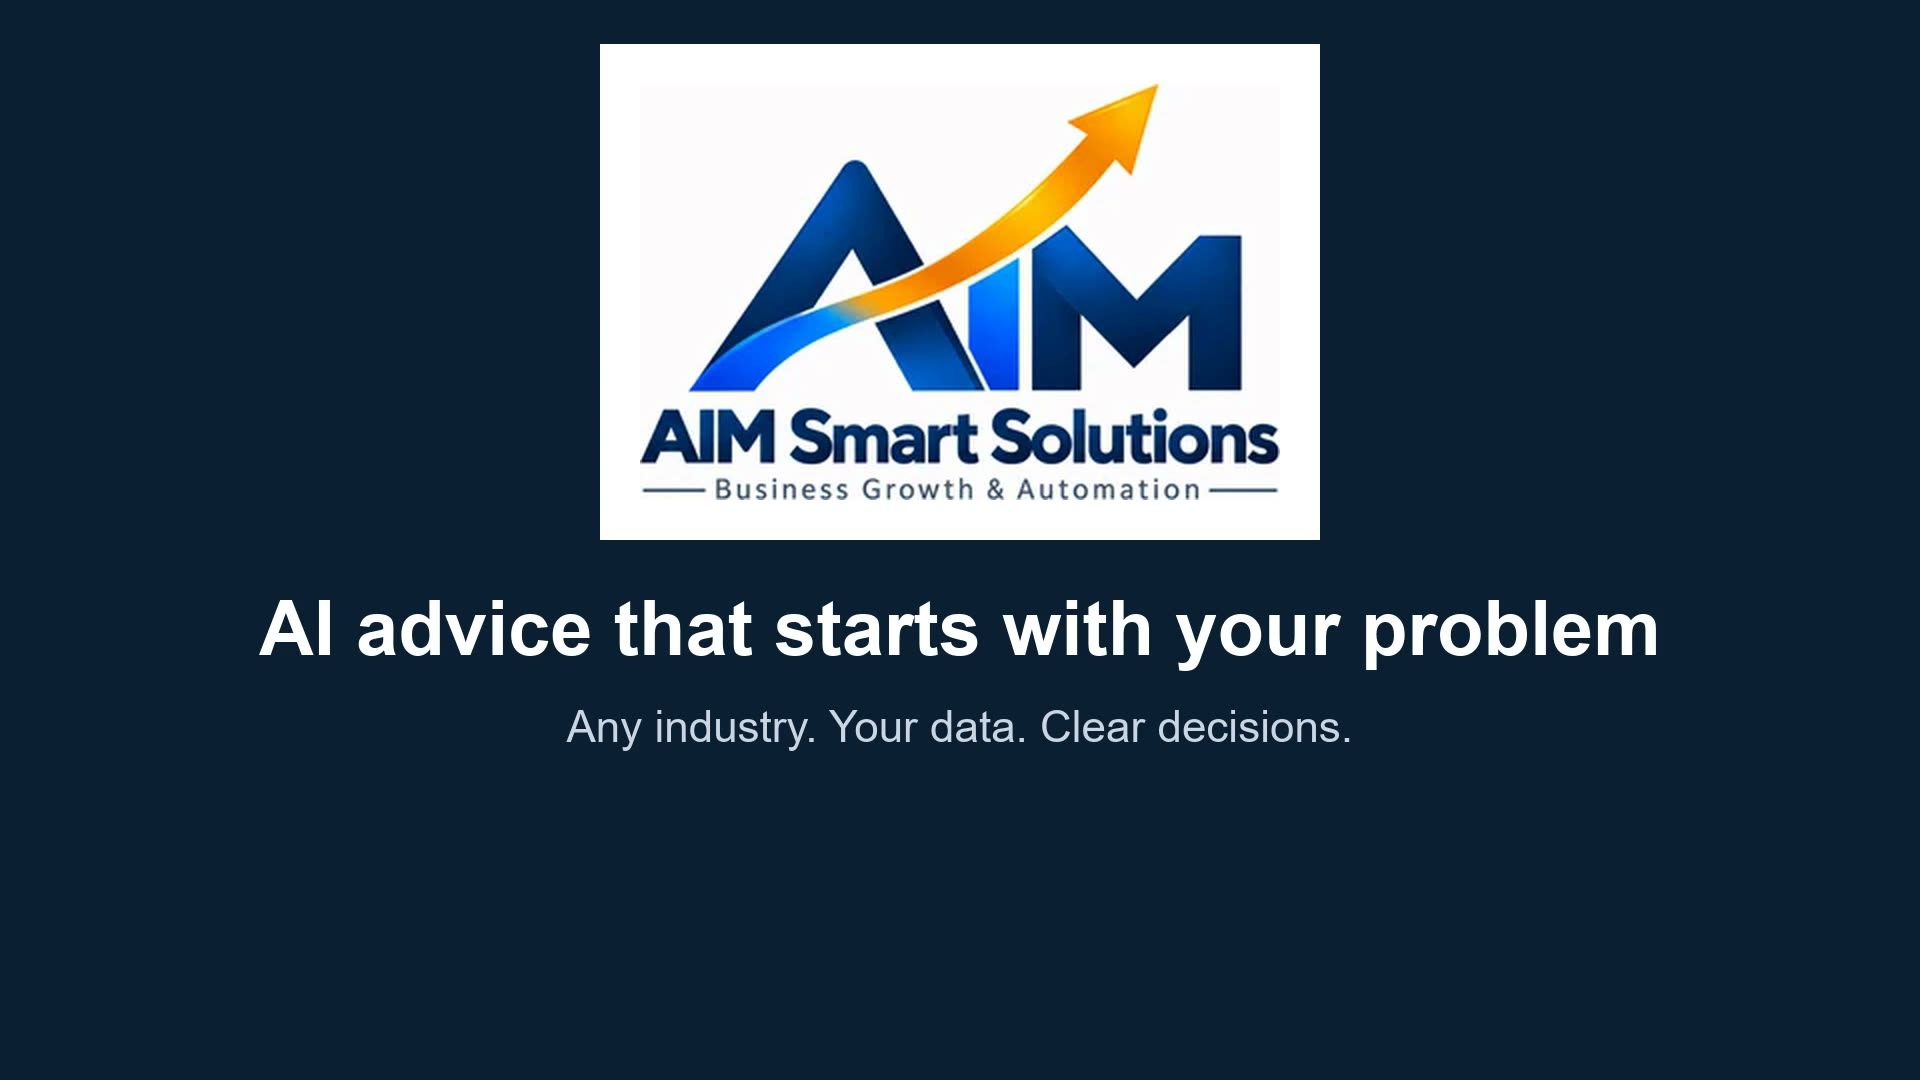
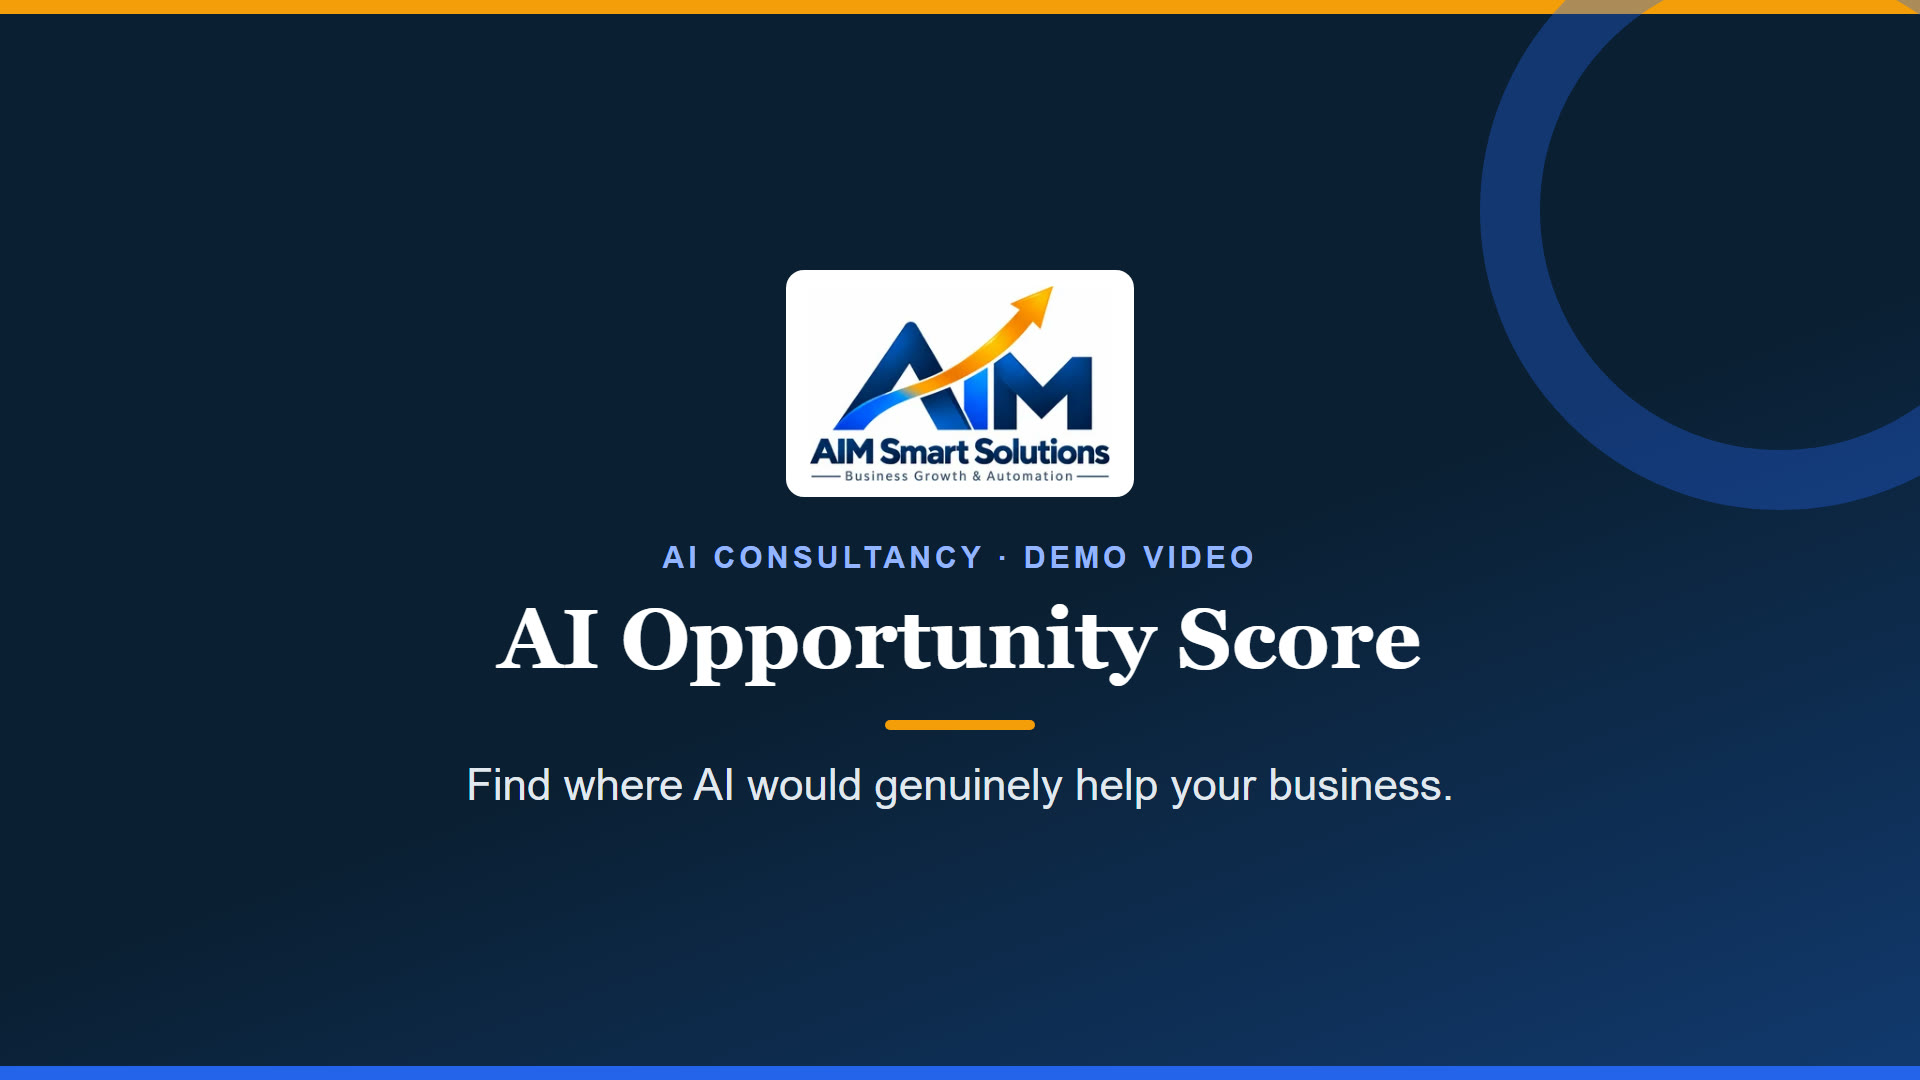
Final fixes: real form wording, quote services by pillar, booking time limit, video covers
- Enquiry button "Send my enquiry".
- Quote form: nine services grouped by pillar plus "Not sure yet / something
  else" (names go into the emails); up to 6, matching what the server keeps.
- Booking: "We couldn't load the available times..." with "Try again" if times
  fail or take over 8 s; late times still appear.
- Course Design & Build shows the Skills Taster video (page and /services/).
  Video Production button "Watch our showreel".
- Branded covers for all 10 demo videos.
- Header button "Book a call" under 768px; even spacing in homepage pillar
  cards; textareas use the site font.
- Tests and decisions log updated.

diff --git a/app/instant-quote/page.tsx b/app/instant-quote/page.tsx
@@ -4,17 +4,19 @@ import ContactCrumbs from "../components/ContactCrumbs";
 import { FormEvent, useMemo, useState } from "react";
 import PrivacyNote from "../components/PrivacyNote";
 import { callFunction, HONEYPOT_FIELD, toUkE164 } from "@/lib/supabase-functions";
+import { pillars } from "@/lib/site";
+import { serviceBySlug } from "../services/data";
 import "./quote.css";
 
-const services = [
-  { id: "discovery", name: "Automation Discovery & Workflow Plan" },
-  { id: "email", name: "Customer Email Automation" },
-  { id: "quote", name: "Automatic Quote Workflow" },
-  { id: "booking", name: "Appointment Booking & Reminders" },
-  { id: "dashboard", name: "Business Dashboard" },
-  { id: "voice", name: "AI Voice Agent Setup" },
-  { id: "other", name: "Other service not listed" },
-];
+// The nine services, grouped by pillar, plus "Not sure yet". Their names go into the quote
+// emails as they appear here. The save-service-request function keeps up to 6 per request.
+const NOT_SURE = { id: "not-sure", name: "Not sure yet / something else" };
+const groups = pillars.map((pillar) => ({
+  name: pillar.name,
+  services: pillar.services.map((slug) => ({ id: slug, name: serviceBySlug(slug)?.name ?? slug })),
+}));
+const services = [...groups.flatMap((group) => group.services), NOT_SURE];
+const MAX_SERVICES = 6;
 
 type SubmissionState = "ready" | "submitting" | "success" | "error";
 
@@ -33,6 +35,7 @@ export default function InstantQuotePage() {
     setState("ready");
     setMessage("");
     setSelected((current) => {
+      if (!current.includes(id) && current.length >= MAX_SERVICES) return current;
       const next = current.includes(id) ? current.filter((item) => item !== id) : [...current, id];
       setActiveIndex((index) => Math.min(index, Math.max(next.length - 1, 0)));
       return next;
@@ -90,15 +93,25 @@ export default function InstantQuotePage() {
             <div aria-hidden="true" style={{ position: "absolute", left: "-10000px", width: 1, height: 1, overflow: "hidden" }}><label htmlFor="quote-website">Website<input id="quote-website" name={HONEYPOT_FIELD} type="text" tabIndex={-1} autoComplete="off" /></label></div>
           </div>
 
-          <div className="quote-step service-step"><span>02</span><div><h2>Select the support you may need</h2><p>Not sure? Choose “Automation Discovery &amp; Workflow Plan” or book a free call first.</p></div></div>
-          <div className="quote-services">
-            {services.map((service) => (
-              <label className={selected.includes(service.id) ? "selected" : ""} key={service.id}>
-                <input type="checkbox" checked={selected.includes(service.id)} onChange={() => toggle(service.id)} />
-                <span><strong>{service.name}</strong></span>
-              </label>
-            ))}
-          </div>
+          <div className="quote-step service-step"><span>02</span><div><h2>Select the support you may need</h2><p>Choose up to {MAX_SERVICES}. Not sure which fits? Choose “{NOT_SURE.name}” or book a free call first.</p></div></div>
+          {[...groups, { name: "Something else", services: [NOT_SURE] }].map((group) => (
+            <fieldset className="quote-service-group" key={group.name}>
+              <legend>{group.name}</legend>
+              <div className="quote-services">
+                {group.services.map((service) => {
+                  const isOn = selected.includes(service.id);
+                  const full = !isOn && selected.length >= MAX_SERVICES;
+                  return (
+                    <label className={`${isOn ? "selected" : ""}${full ? " is-full" : ""}`} key={service.id}>
+                      <input type="checkbox" checked={isOn} disabled={full} onChange={() => toggle(service.id)} />
+                      <span><strong>{service.name}</strong></span>
+                    </label>
+                  );
+                })}
+              </div>
+            </fieldset>
+          ))}
+          {selected.length >= MAX_SERVICES && <p className="quote-limit" role="status">You have chosen {MAX_SERVICES} services, the most one request can hold. Untick one to choose another.</p>}
         </div>
 
         <aside className="service-details-panel" aria-live="polite">

diff --git a/app/book-appointment/page.tsx b/app/book-appointment/page.tsx
@@ -4,10 +4,15 @@ import { FormEvent, useEffect, useState } from "react";
 import PrivacyNote from "../components/PrivacyNote";
 import ContactCrumbs from "../components/ContactCrumbs";
 import { BOOKING_CTA } from "@/lib/site";
-import { callFunction, HONEYPOT_FIELD } from "@/lib/supabase-functions";
+import { callFunction, CONTACT_EMAIL, HONEYPOT_FIELD } from "@/lib/supabase-functions";
 import "./booking.css";
 
-type BookingState = "loading" | "ready" | "submitting" | "success" | "error";
+type BookingState = "loading" | "ready" | "slotsError" | "submitting" | "success" | "error";
+
+// The calendar can take several seconds on its first request after a quiet spell. After 8 seconds
+// the visitor sees this message and a "Try again" button; if the times arrive later they still appear.
+const SLOT_TIMEOUT_MS = 8000;
+const SLOTS_FAILED = `We couldn't load the available times. Please try again or email ${CONTACT_EMAIL}.`;
 
 const formatSlot = (slot: string) => new Intl.DateTimeFormat("en-GB", {
   weekday: "short", day: "numeric", month: "short", hour: "2-digit", minute: "2-digit", timeZone: "Europe/London",
@@ -27,9 +32,10 @@ export default function BookAppointmentPage() {
 
   // State is only set once the request settles, never synchronously inside the effect.
   function showSlots(request: Promise<string[]>) {
+    const timer = window.setTimeout(() => { setState("slotsError"); setMessage(SLOTS_FAILED); }, SLOT_TIMEOUT_MS);
     request.then(
-      (loaded) => { setSlots(loaded); setState("ready"); },
-      (error: unknown) => { setState("error"); setMessage(error instanceof Error ? error.message : "Available times could not be loaded."); },
+      (loaded) => { window.clearTimeout(timer); setSlots(loaded); setState("ready"); setMessage(""); },
+      () => { window.clearTimeout(timer); setState("slotsError"); setMessage(SLOTS_FAILED); },
     );
   }
 
@@ -84,13 +90,14 @@ export default function BookAppointmentPage() {
             <fieldset className="slot-field">
               <legend>Available appointment times</legend>
               {state === "loading" && <p className="slot-loading">Loading available times…</p>}
-              {state !== "loading" && slots.length === 0 && <p className="slot-loading">No appointment times are currently available.</p>}
+              {state === "ready" && slots.length === 0 && <p className="slot-loading">No appointment times are currently available.</p>}
               <div className="slot-grid">{slots.map((slot) => <button key={slot} type="button" className={selectedSlot === slot ? "selected" : ""} onClick={() => setSelectedSlot(slot)}>{formatSlot(slot)}</button>)}</div>
             </fieldset>
             <p className="booking-reassurance">Your details are used only to arrange and prepare for this conversation.</p>
             <button type="submit" disabled={!selectedSlot || state === "submitting"}>{state === "submitting" ? "Booking…" : "Book my free AI Opportunity Call"}<span>→</span></button>
           </>}
-          {message && <p className={`submission-message ${state}`} role="status" aria-live="polite">{message}</p>}
+          {message && <p className={`submission-message ${state === "slotsError" ? "error" : state}`} role="status" aria-live="polite">{message}</p>}
+          {state === "slotsError" && <button className="retry-button" type="button" onClick={loadSlots}>Try again</button>}
           {state === "error" && <button className="retry-button" type="button" onClick={loadSlots}>Reload available times</button>}
           <PrivacyNote text="We use your details only to arrange and prepare for this call." />
         </form>

diff --git a/lib/demos.ts b/lib/demos.ts
@@ -143,7 +143,7 @@ export const demoById = (id: string) => demos.find((demo) => demo.id === id);
 // The demo video(s) for each service: the one list both /services/ and the service pages use,
 // so they always show the same videos. `demoId` ties a video to an interactive demo on the
 // service page, where it is shown inside that demo's card next to "Try it".
-export type DemoVideoCard = { title: string; line: string; video: string; demoId?: string };
+export type DemoVideoCard = { title: string; line: string; video: string; demoId?: string; buttonLabel?: string };
 
 // Video Production's 30-45 second showreel, cut from AIM's own videos (no voiceover).
 export const SHOWREEL_VIDEO = "showreel-v1";
@@ -156,7 +156,7 @@ const demoVideo = (id: string, line: string): DemoVideoCard => {
 export const serviceVideos: Record<string, DemoVideoCard[]> = {
   "ai-voice-agents": [{ title: "AI Voice Agents explainer", line: "How a voice agent answers calls and calls new leads back.", video: VOICE_AGENTS_VIDEO }],
   "sales-marketing": [demoVideo("content-generator", "Turn one idea into social posts, a content plan and local keyword ideas.")],
-  "video-production": [{ title: "AIM video showreel", line: "A short reel of explainer and demo videos made for AIM.", video: SHOWREEL_VIDEO }],
+  "video-production": [{ title: "AIM video showreel", line: "A short reel of explainer and demo videos made for AIM.", video: SHOWREEL_VIDEO, buttonLabel: "Watch our showreel" }],
   "business-automation": [{ title: "Business Process Automation demo", line: "An enquiry arrives, the customer gets an instant reply and the owner gets an alert.", video: "automation-demo-v1" }],
   "smart-apps": [demoVideo("pharma-market-intelligence", "Decide which product to pilot, and at what price, from field survey data.")],
   "data-analytics": [
@@ -166,7 +166,7 @@ export const serviceVideos: Record<string, DemoVideoCard[]> = {
   ],
   "ai-consultancy": [demoVideo("ai-opportunity-score", "Answer seven quick questions and get a score with your top recommendations.")],
   training: [demoVideo("ai-skills-taster", "A short lesson on writing better AI prompts, with a quick quiz.")],
+  // Course Design & Build is shown through the same Skills Taster video.
+  "course-design": [{ ...demoVideo("ai-skills-taster", "A short lesson on writing better AI prompts, with a quick quiz."), demoId: undefined }],
 };
 
-// Services shown through another service's video instead of their own card.
-export const sharedServiceVideo: Record<string, string> = { "course-design": "training" };

diff --git a/app/services/page.tsx b/app/services/page.tsx
@@ -1,7 +1,7 @@
 import type { Metadata } from "next";
 import Link from "next/link";
 import { pillars } from "@/lib/site";
-import { serviceVideos, sharedServiceVideo } from "@/lib/demos";
+import { serviceVideos } from "@/lib/demos";
 import { serviceBySlug } from "./data";
 import { BookingButton, pillarNumber } from "../components/Blocks";
 import VideoModalLink from "../components/VideoModalLink";
@@ -42,24 +42,19 @@ export default function Services() {
             {pillar.services.map((slug) => {
               const service = serviceBySlug(slug);
               if (!service) return null;
-              const shared = sharedServiceVideo[slug] ? serviceBySlug(sharedServiceVideo[slug]) : undefined;
               const videos = serviceVideos[slug] ?? [];
               return (
                 <article className="services-list-card service-video-card" id={`service-${slug}`} key={slug}>
                   <h3>{service.name}</h3>
                   <p>{service.tagline}</p>
-                  {shared ? (
-                    <p className="service-video-shared">Shown through the 5-minute AI Skills Taster: <a href={`#service-${shared.slug}`}>see its video under {shared.name}</a>.</p>
-                  ) : (
-                    <ul className="service-videos">
-                      {videos.map((video) => (
-                        <li key={video.video}>
-                          {videos.length > 1 && <span className="service-video-name">{video.title}</span>}
-                          <VideoModalLink video={video.video} title={video.title} label="Watch the demo video" />
-                        </li>
-                      ))}
-                    </ul>
-                  )}
+                  <ul className="service-videos">
+                    {videos.map((video) => (
+                      <li key={video.video}>
+                        {videos.length > 1 && <span className="service-video-name">{video.title}</span>}
+                        <VideoModalLink video={video.video} title={video.title} label={video.buttonLabel ?? "Watch the demo video"} />
+                      </li>
+                    ))}
+                  </ul>
                   <Link className="service-explore" href={`/services/${slug}/`}>Explore {service.name} <span aria-hidden="true">→</span></Link>
                 </article>
               );

diff --git a/app/site.css b/app/site.css
@@ -326,3 +326,18 @@ footer.site-footer{max-width:1440px;margin:0 auto;padding:56px 6vw 28px;display:
 /* Homepage: header booking button fades while the hero's own booking button is on screen */
 .site-header .nav-cta{transition:opacity .3s ease,visibility .3s ease}
 .site-header .nav-cta.is-hidden{opacity:0;visibility:hidden;pointer-events:none}
+
+/* Header booking button: shorter label on small screens */
+.nav-cta .cta-short{display:none}
+@media(max-width:767px){.nav-cta .cta-long{display:none}.nav-cta .cta-short{display:inline}.site-header .nav-cta{max-width:none;white-space:nowrap;padding:10px 14px}}
+/* Homepage pillar cards: the same space above and below the divider on every card */
+.pillar-card>p:not(.pillar-number):not(.pillar-promise){margin:0}
+.pillar-card .pillar-services{margin:24px 0 0;padding:20px 0 0}
+/* Form text areas and their example text use the site font */
+textarea{font-family:inherit}
+.contact-form textarea,.contact-form textarea::placeholder,.service-details-panel textarea::placeholder{font-family:Arial,Helvetica,sans-serif;font-weight:400;letter-spacing:normal;text-transform:none}
+/* Quote form: services grouped by pillar */
+.quote-service-group{margin:0 0 18px;padding:0;border:0}
+.quote-service-group legend{margin:0 0 10px;padding:0;color:var(--cobalt-dark);font-size:12px;font-weight:800;letter-spacing:.1em;text-transform:uppercase}
+.quote-services label.is-full{opacity:.55;cursor:not-allowed}
+.quote-limit{margin:4px 0 0;color:var(--slate);font-size:14px;font-weight:700}

diff --git a/app/business-enquiry/page.tsx b/app/business-enquiry/page.tsx
@@ -120,7 +120,7 @@ export default function BusinessEnquiryPage() {
           {urgent && <label htmlFor="call-consent" style={{ display: "flex", alignItems: "flex-start", gap: 10, margin: "0 0 20px", fontSize: 14, letterSpacing: 0, textTransform: "none", cursor: "pointer" }}><input id="call-consent" style={{ width: 18, height: 18, margin: "2px 0 0", flex: "none" }} name="consent" type="checkbox" value="yes" required /> {CALL_CONSENT_TEXT}</label>}
           </> : <p className="field-help urgency-help" style={{ margin: "0 0 20px" }}>{PRIORITY_NOTE}</p>}
           <Turnstile onToken={setTurnstileToken} resetKey={turnstileKey} />
-          <button type="submit" disabled={state === "submitting"}>{state === "submitting" ? "Submitting…" : "Try the enquiry journey"}<span>→</span></button>
+          <button type="submit" disabled={state === "submitting"}>{state === "submitting" ? "Sending…" : "Send my enquiry"}<span>→</span></button>
           {message && <p id="enquiry-status" className={`submission-message ${state}`} role="status" aria-live="polite">{message}</p>}
           <PrivacyNote text="We use your details only to reply to your enquiry." />
         </form>

diff --git a/app/components/SiteHeader.tsx b/app/components/SiteHeader.tsx
@@ -76,7 +76,7 @@ export default function SiteHeader() {
         {links.map((link) => <Link key={link.href} href={link.href} aria-current={isCurrent(link.href) ? "page" : undefined}>{link.label}</Link>)}
       </nav>
 
-      {!onBooking && <Link className={`nav-cta${hideCta ? " is-hidden" : ""}`} href={BOOKING_CTA.href} aria-hidden={hideCta || undefined} tabIndex={hideCta ? -1 : undefined}>{BOOKING_CTA.label}</Link>}
+      {!onBooking && <Link className={`nav-cta${hideCta ? " is-hidden" : ""}`} href={BOOKING_CTA.href} aria-hidden={hideCta || undefined} tabIndex={hideCta ? -1 : undefined}><span className="cta-long">{BOOKING_CTA.label}</span><span className="cta-short">Book a call</span></Link>}
 
       <button type="button" className="menu-toggle" aria-expanded={open} aria-controls="mobile-menu" onClick={() => setOpen((value) => !value)}>
         <span className="menu-toggle-bars" aria-hidden="true" />

diff --git a/app/services/[slug]/page.tsx b/app/services/[slug]/page.tsx
@@ -61,7 +61,7 @@ function ServiceDemo({ service }: { service: Service }) {
     <>
       {top.map((v) => (
         <figure className="demo-video" key={v.video}>
-          <h3>{top.length > 1 ? `Watch the demo video: ${v.title}` : "Watch the demo video"}</h3>
+          <h3>{v.buttonLabel ?? (top.length > 1 ? `Watch the demo video: ${v.title}` : "Watch the demo video")}</h3>
           <video controls preload="none" playsInline poster={`${basePath}/assets/videos/${v.video}-poster.jpg`} aria-label={`${v.title} video`} data-video={v.video}>
             <source src={`${basePath}/assets/videos/${v.video}.mp4`} type="video/mp4" />
           </video>

diff --git a/docs/DECISIONS.md b/docs/DECISIONS.md
@@ -258,3 +258,18 @@ than rewriting history; if a decision changes, add a new entry that replaces the
 - Homepage only: the header "Book a Free AI Opportunity Call" fades out while the hero's own booking
   button is on screen and returns once the visitor scrolls past it (hidden from clicks and
   keyboard while faded). The hero's secondary button is "Watch our demos →" (/services/).
+
+## Final fixes from the screenshot review (2026-10-30)
+- Contact forms use real-form wording: the enquiry button is "Send my enquiry".
+- The quote form lists the nine services grouped by pillar, plus "Not sure yet / something else".
+  The names are sent as they appear, so the quote emails show them. At most 6 can be chosen,
+  because the save-service-request function keeps 6 services per request.
+- Booking: the first availability request after a quiet spell can take over 10 seconds (the
+  Google Apps Script calendar behind GOOGLE_BOOKING_URL warms up). After 8 seconds, or on failure,
+  the page shows "We couldn't load the available times. Please try again or email
+  enquiry@aimsmartsolutions.tech." with a "Try again" button; times that arrive later still appear.
+- Course Design & Build shows the AI Skills Taster video on its page and its /services/ card.
+  Video Production's button is "Watch our showreel".
+- Every demo video has a branded cover (AIM logo, service, title, a subtitle for that service).
+- Header booking button reads "Book a call" under 768px wide. Homepage pillar cards have the same
+  spacing around the divider. Form text areas use the site font.
